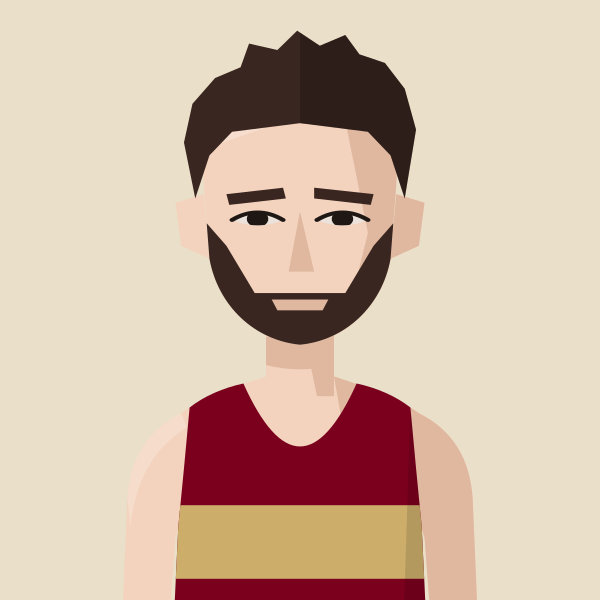
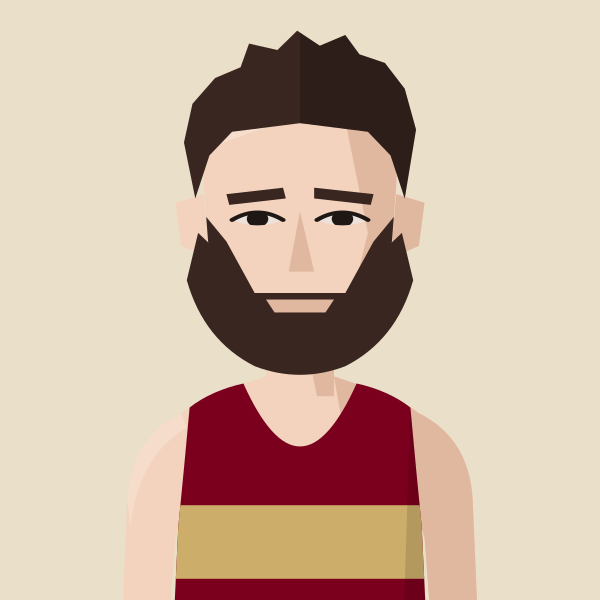
Portraits from The Belgravian, batch 2: Tony Fairclough, Trevor Hart, Ron Linstead, John Baker, Simon Holmes, Mike Kortenray, Geoff Biscoe; bushier beard for Lionel Mann
Adds a 'bushybeard' facial style to the generator. John Lee (CRO) drawn but not registered: the site merges every J Lee into one Hounslow runner.

Claude-Session: https://claude.ai/code/session_01DgcEr9hQHGiZw2mBbM5jbH

Changed region(s): [[0.3, 0.36, 0.69, 0.63], [0.54, 0.48, 0.57, 0.51]]

diff --git a/files/index.html b/files/index.html
@@ -591,12 +591,12 @@ const LoadingVests=()=>{
 const PORTRAIT_CLUBS=new Set(['BEL','KEN','THH','HHH','H/W','SLH','G&G','RAN','C/C','DUL','HOL','WAL','CRO','WOK','E&E','FUL','SOC','BOX','BOH','AFD','SUR','MIT','REI','DMV','STR','W4H','W/W','K&P','S&D','SEL','DWN','FOT','LCR','ADV','262','MPA','BAC','OME','VAC','HER']);
 // Superstar portraits: every spelling of the athlete's name used in the data -> file in portraits/athletes/
 const PORTRAITS=(()=>{const m={};const add=(file,club,...names)=>names.forEach(n=>{const k=n.toLowerCase();if(m[k]&&m[k].club!==club)m[k+'@'+club]={file,club};else m[k]={file,club};});
-add('kitty-shepherd-cross','BEL','Kitty Shepherd-Cross','Kitty Shepherd Cross');add('jack-kavanagh','HOL','Jack Kavanagh');add('sam-bramwell','HHH','Sam Bramwell');add('suzie-harvey','G&G','Suzie Harvey');add('freddie-hessian','H/W','Freddie Hessian');add('jamie-crowe','H/W','Jamie Crowe');add('sam-gebreselassie','BEL','Samuel Gebreselassie','Sam Gebreselassie');add('jack-brotchie','HHH','Jack Brotchie');add('jack-millar','THH','Jack Millar');add('lucy-jones','HHH','Lucy Jones');add('alex-milne','H/W','Alex Milne');add('josh-trigwell','BEL','Josh Trigwell');add('mack-downie','BEL','Mack Downey','Mack Downie');add('george-ogden','SLH','George Ogden');add('stuart-mccallum','H/W','Stuart McCallum');add('andrew-penney','H/W','Andrew Penney');add('jeremy-dempsey','THH','Jeremy Dempsey');add('henry-hart','BEL','Henry Hart');add('john-sanderson','G&G','John Sanderson');add('andy-fyfe','BEL','Andrew Fyfe','Andy Fyfe');add('saron-haileselase','BEL','Saron Haileselase');add('paskar-owor','BEL','Paskar Owor');add('ruby-carter','H/W','Ruby Carter');add('tom-foster','G&G','Tom Foster');add('mark-tennyson','G&G','Mark Tennyson');add('richard-ollington','THH','Richard Ollington');add('james-preston','BEL','James Preston');add('daniel-wolff','BEL','Daniel Wolff');add('jonny-scott','BEL','Jonathan Scott','Jonny Scott');add('josh-mitchell','BEL','Josh Mitchell');add('dylan-evans','BEL','Dylan Evans');add('morgan-roberts','HHH','Morgan Roberts');add('fred-slemeck','H/W','Fred Slemeck','Frederick Slemeck');add('matthew-edgar','BEL','Matthew Edgar');add('sam-sommerville','BEL','Sam Sommerville');add('richard-mcdowell','H/W','Richard McDowell');add('margaret-coogan','HHH','Margaret Coogan');add('owen-hind','KEN','Owen Hind','Owen Hinds');add('indy-barnes','THH','Indy Barnes');add('conall-mcnally','BEL','Conall McNally');add('rowan-board','HHH','Rowan Board');add('andy-weir','THH','Andy Weir','Andrew Weir');add('neil-chisholm','THH','Neil Chisholm','Neal Chisholm');add('pancho-panchev','H/W','Pancho Panchev');add('adrien-royer','G&G','Adrien Royer');add('rob-kelly','BEL','Robert Kelly','Rob Kelly');add('alex-janiaud','BEL','Alex Janiaud');add('jack-ramm','DUL','Jack Ramm');add('findlay-dyer','BEL','Findlay Dyer');add('james-blackwood','DUL','James Blackwood');add('sonny-nicoll','H/W','Sonny Nicoll');add('anisse-ismaili','THH','Anisse Ismaili');add('caleb-hathaway','HHH','Caleb Hathaway');add('barnaby-day','KEN','Barnaby Day');add('simon-coppard','BEL','Simon Coppard');add('ronan-tanguy','HHH','Ronan Tanguy');add('chris-threadgold','BEL','Chris Threadgold');add('mathew-speed','KEN','Mathew Speed','Matthew Speed');add('john-lethbridge','THH','John Lethbridge');add('oliver-fox','THH','Oliver Fox');add('jack-woods','HOL','Jack Woods');add('larry-ryan','BEL','Larry Ryan');add('ethan-mccolgan','THH','Ethan McColgan');add('jonathan-collier','KEN','Jonathan Collier');add('andrew-green','HOL','Andrew Green','Andy Green');add('fintan-pearce','BEL','Fintan Pearce');add('daniel-shaw','HHH','Daniel Shaw');add('sam-tyas','BEL','Sam Tyas');add('tom-austin','HHH','Tom Austin');add('ian-ellwood','KEN','Ian Ellwood');add('rian-mccawley','BEL','Rian McCawley');add('kieran-barnes','HOL','Kieran Barnes');add('ed-mallett','H/W','Ed Mallett','Edward Mallett');add('john-hutchins','WOK','John Hutchins');add('george-gathercole','THH','George Gathercole');add('nick-lightfoot','G&G','Nick Lightfoot');add('eoin-brady','H/W','Eoin Brady');add('james-stockings','H/W','James Stockings');add('jack-hobden','H/W','Jack Hobden');add('hugo-hewitt','HOL','Hugo Hewitt');add('zach-nolan','BEL','Zach Nolan');add('isaac-lutaya','H/W','Isaac Lutaya');add('oliver-young','BEL','Oliver Young');add('ben-racle','KEN','Ben Racle');add('josh-snow','BEL','Josh Snow');add('oliver-reynolds','BEL','Oliver Reynolds');add('aaron-wilson','DUL','Aaron Wilson');add('liam-burthem','HHH','Liam Burthem');add('dan-pettitt','KEN','Dan Pettitt');add('bob-holt','H/W','Bob Holt');add('dave-holt','H/W','Dave Holt');add('mike-fuller','H/W','Mike Fuller');add('mike-beevor','H/W','Mike Beevor');add('john-day','H/W','John Day');add('john-sullivan','H/W','John Sullivan');add('barry-collins','H/W','Barry Collins');add('bob-rayman','H/W','Bob Rayman');add('pete-mulholland','H/W','Pete Mulholland');add('charlie-eastaugh','H/W','Charlie Eastaugh');add('oli-carrington','H/W','Oli Carrington');add('jonathan-cornish','H/W','Jonathan Cornish');add('christopher-parker','THH','Christopher Parker');add('monty-hudson','BEL','Monty Hudson');add('dan-wallis-gg','G&G','Dan Wallis');add('ben-pearce','HOL','Ben Pearce');add('jacob-brockmann','THH','Jacob Brockmann');add('alex-gutteridge','HHH','Alex Gutteridge');add('tom-davies','H/W','Tom Davies');add('matt-wood','HHH','Matt Wood');add('isaac-parker','KEN','Isaac Parker');add('tom-omahoney','HHH','Tom O\'Mahoney');add('ed-brewer','G&G','Ed Brewer');add('james-bartram','THH','James Bartram');add('charlie-pickett','G&G','Charlie Pickett');add('harry-guttridge','C/C','Harry Guttridge');add('alex-harris','KEN','Alex Harris');add('tom-thornley','HOL','Tom Thornley');add('max-bloor','DUL','Max Bloor');add('john-foxall','HHH','John Foxall');add('robin-boon','G&G','Robin Boon');add('joe-english','KEN','Joe English');add('sebastian-anthony','G&G','Sebastian Anthony');add('thomas-gardner','BEL','Thomas Gardner');add('brian-wilder','HHH','Brian Wilder');add('george-jackson','HHH','George Jackson');add('james-roberts','BEL','James Roberts');add('ed-gibson','DUL','Ed Gibson');add('jack-harrison','SLH','Jack Harrison');add('matthew-varley','BEL','Matthew Varley');add('eddie-rolls','C/C','Eddie Rolls');add('phil-sanders','KEN','Phil Sanders');add('jon-phillips','DUL','Jon Phillips');add('noah-fernandez','H/W','Noah Fernandez');add('paul-calver','HHH','Paul Calver');add('jordan-weaver','KEN','Jordan Weaver');add('john-thresher','BEL','John Thresher','J Thresher');add('junior-galley','BEL','Junior Galley');add('tony-binda','BEL','Tony Binda');add('phil-carstairs','BEL','Phil Carstairs');add('clive-gilby','BEL','Clive Gilby');add('roger-alsop','HHH','Roger Alsop');add('roger-alsop-bel','BEL','Roger Alsop');add('gerry-adams','BEL','Gerry Adams');add('mike-nouch','BEL','Mike Nouch');add('darren-mead','BEL','Darren Mead');add('james-estall','BEL','James Estall','Jim Estall','J Estall');add('thomas-renshaw','THH','Thomas Renshaw','Tom Renshaw');add('amittai-ben-israel','THH','Amittai Ben-Israel');add('helena-keenan','HHH','Helena Keenan');add('eloise-bull','G&G','Eloise Bull');add('gemma-newport','BEL','Gemma Newport');add('sarah-palmer','STR','Sarah Palmer');add('sarah-palmer-ran','RAN','Sarah Palmer');add('elinor-skinner','KEN','Elinor Skinner');add('sarah-holt','STR','Sarah Holt');add('serena-carter','THH','Serena Carter');add('abbey-brooke','BEL','Abbey Brooke');add('becky-briggs','BEL','Becky Briggs');add('maddie-mastrolonardo','BEL','Maddie Mastrolonardo');add('jennifer-nandi','HHH','Jennifer Nandi');add('ella-fennelly','BEL','Ella Fennelly');add('natalie-beadle','BEL','Natalie Beadle');add('pamela-mchutchon','STR','Pamela McHutchon');add('gerry-north','BEL','Gerry North');add('steve-gardner','BEL','Steve Gardner');add('alex-yee','KEN','Alex Yee');add('phil-wicks','BEL','Phil Wicks');add('john-gilbert','KEN','John Gilbert','Jonathan Gilbert');add('chris-busaileh','KEN','Chris Busaileh');add('jim-allchin','KEN','Jim Allchin');add('finn-johnson','H/W','Finn Johnson');add('will-cockerell','BEL','William Cockerell','Will Cockerell');add('nick-goolab','BEL','Nick Goolab');add('arne-dumez','BEL','Arne Dumez');add('geoff-jerwood','HHH','Geoff Jerwood','G Jerwood');add('alex-lee','HHH','Alex Lee');add('benedict-whitby','HHH','Benedict Whitby');add('falilou-kebe','BEL','Falilou Kebe');add('jack-dickson','H/W','Jack Dickson');add('phil-swinburn','HOL','Phil Swinburn');add('rob-armstrong','DUL','Rob Armstrong');add('ashley-goncalves','HHH','Ashley Goncalves');add('eddie-jodrell','BEL','Eddie Jodrell');add('thomas-gandee','BEL','Thomas Gandee');add('max-milarvie','DUL','Max Milarvie');add('alex-lennon','BEL','Alex Lennon');add('james-hoad','THH','James Hoad');add('william-gardner','BEL','William Gardner');add('paddy-roddy','THH','Paddy Roddy','PADDY RoDDY');add('simon-waterhouse','BEL','Simon Waterhouse');add('conall-whelan','BEL','Conall Whelan');add('simon-williams','BEL','Simon Williams');add('christian-lee','HOL','Christian Lee');add('sean-cordon','DUL','Sean Cordon','sean cordon');add('michael-mccarthy','BEL','Michael McCarthy','Michael Mccarthy');add('jeff-cunningham','HHH','Jeff Cunningham');add('sam-peters','H/W','Sam Peters');add('ryan-hickey','HHH','Ryan Hickey');add('ben-scott','BEL','Ben Scott');add('tom-gifford','BEL','Tom Gifford');add('valentin-rigori','BEL','Valentin Rigori');add('david-grima','H/W','David Grima');add('deron-fagan','HHH','Deron Fagan');add('lee-lintern','G&G','Lee Lintern');add('ian-acreman','G&G','Ian Acreman');add('alex-howard','THH','Alex Howard');add('james-hancock','BEL','James Hancock');add('nick-morris','BEL','Nick Morris');add('richard-sun','H/W','Richard Sun');add('jonathan-cocker','G&G','Jonathan Cocker');add('isobel-hodder','BEL','Isobel Hodder');add('emma-howsham','G&G','Emma Howsham');add('eilidh-hide','BEL','Eilidh Hide');add('karen-xiang','BEL','Karen Xiang');add('claire-grima','H/W','Claire Grima');add('emma-gordon','BEL','Emma Gordon');add('emily-lowery','BEL','Emily Lowery');add('felicity-harrison','BEL','Felicity Harrison');add('alice-martin','HOL','Alice Martin');add('juliet-hodder','BEL','Juliet Hodder');add('abbie-bulbulian','C/C','Abbie Bulbulian');add('lara-mangan','BEL','Lara Mangan');add('clare-elms','KEN','Clare Elms');add('james-nutt','HHH','James Nutt');add('colin-high','G&G','Colin High');add('gavin-eccles','BEL','Gavin Eccles');add('samuel-dames','KEN','Samuel Dames');add('tom-lole','BEL','Tom Lole');add('will-marshall','BEL','Will Marshall');add('stephen-mcleod','HHH','Stephen McLeod');add('rory-orsborn','HHH','Rory Orsborn');add('thomas-dugre','BEL','Thomas Dugre');add('arthur-peel','BEL','Arthur Peel');add('angus-lamb','BEL','Angus Lamb');add('andrew-warburton','HHH','Andrew Warburton');add('robert-laing','KEN','Robert Laing');add('toby-cooke','H/W','Toby Cooke');add('harrison-hayman','SLH','Harrison Hayman');add('edward-chuck','DUL','Edward Chuck');add('robert-sesemann','KEN','Robert Sesemann');add('eoin-molloy','BEL','Eoin Molloy');add('ollie-garrod','BEL','Ollie Garrod');add('matthew-houchell','G&G','Matthew Houchell');add('ben-clarke','KEN','Ben Clarke');add('benjamin-hilson','HOL','Benjamin Hilson');add('molly-oconnor','KEN',"Molly O'Connor");add('iona-cousland','KEN','Iona Cousland');add('anika-schwarze-chintapatla','THH','Anika Schwarze-Chintapatla');add('suzy-whatmough','RAN','Suzy Whatmough');add('kristina-popadich','BEL','Kristina Popadich');add('dillan-quinn','H/W','Dillan Quinn');add('sarah-riceman','BEL','Sarah Riceman');add('holly-pan','BEL','Holly Pan');add('jermaine-mays','SLH','Jermaine Mays');add('gary-staines','BEL','Gary Staines');add('charlie-wyllie','H/W','Charlie Wyllie');add('george-cotton','WOK','George Cotton');add('cameron-reilly','G&G','Cameron Reilly');add('jack-dormer','WOK','Jack Dormer');add('lea-adamson','BEL','Lea Adamson');add('max-heyden','BEL','Max Heyden');add('ian-crowe-wright','BEL','Ian Crowe-Wright');add('neil-wilson','BEL','Neil Wilson');add('lloyd-kempson','BEL','Lloyd Kempson');add('andy-coley-maud','G&G','Andy Coley-Maud');add('dan-cliffe','H/W','Dan Cliffe');add('patrick-mcdougall','BEL','Patrick McDougall','Patrick Mcdougall');add('callum-stewart','BEL','Callum Stewart');add('jamie-parkinson','THH','Jamie Parkinson');add('phil-sesemann','KEN','Phil Sesemann');add('andy-coley-maud-cc','C/C','Andy Coley-Maud');add('jon-pepper-slh','SLH','Jon Pepper');add('ralph-street','RAN','Ralph Street');add('jon-pepper','RAN','Jon Pepper');add('kevin-quinn','SLH','Kevin Quinn');add('frank-tickner','KEN','Frank Tickner');add('paul-pollock','KEN','Paul Pollock');add('chris-busaileh-hhh','HHH','Chris Busaileh','Chris Busileah');add('james-mcmullan','THH','James McMullan');add('ben-hurley','BEL','Ben Hurley');add('alice-crane','DMV','Alice Crane');add('martina-conner','BEL','Martina Conner');add('georgie-grgec','HHH','Georgie Grgec');add('katie-snowden','HHH','Katie Snowden');add('kate-axford','BEL','Kate Axford');add('sarah-astin','BEL','Sarah Astin');add('georgie-bruinvels','SLH','Georgie Bruinvels','G Bruinvels','Georgia Bruinvels');add('samantha-munday','BEL','Samantha Munday','Sanantha Munday');add('holly-nixon','BEL','Holly Nixon');add('sophie-harris','BEL','Sophie Harris');add('isabel-brinsden','E&E','Isabel Brinsden');add('mimi-corden-lloyd','BEL','Mimi Corden-Lloyd');add('steph-hewitt','BEL','Stephanie Hewitt','Steph Hewitt');add('jared-martin','THH','Jared Martin');add('david-bowers','BEL','David Bowers','Dave Bowers');add('stuart-major','SLH','Stuart Major');add('stuart-major-thh','THH','Stuart Major');add('bernie-ford','AFD','Bernie Ford','B Ford');add('dave-taylor','HHH','Dave Taylor');add('arlo-ludewick','HHH','Arlo Ludewick');add('molly-smith','HHH','Molly Smith');add('tom-conlon','HHH','Tom Conlon','T Conlon');add('mike-cummings','HHH','Mike Cummings','M Cummings');add('simon-wurr','THH','Simon Wurr','S Wurr');add('cameron-dockerill','KEN','Cameron Dockerill','Cam Dockerill');add('james-ewing','KEN','James Ewing','Jamie Ewing');add('james-murray','KEN','James Murray');add('phil-woodford-smith','KEN','Phil Woodford-Smith');add('clare-pauzers','HHH','Clare Pauzers','Clare Pauzer','Claire Pauzer');add('steve-smythe','DUL','Steve Smythe','S Smythe','S Smyth','Steve Smyth','SMYTHE');add('steve-smythe-hhh','HHH','Steve Smythe');add('david-symons','THH','David Symons','Dave Symons','D Symons');add('john-foss','SLH','John Foss','John Fosse');add('lucy-macalister','THH','Lucy Macalister','L Macalister');add('vic-maughan','HHH','Vic Maughan','Vic Maughn','Victor Maughn','V Maughan','V Maughn','V Maugan');add('lewis-lloyd','HHH','Lewis Lloyd');add('nic-lukies','BEL','Nic Lukies');add('max-nicholls','KEN','Max Nicholls');add('nick-acfield','KEN','Nick Acfield');add('olly-buck','KEN','Olly Buck');add('dame-dibaba','KEN','Dame Dibaba');add('chris-greenwood','KEN','Chris Greenwood','Christopher Greenwood');add('chris-keavey','BEL','Chris Keavey','C Keavey');add('john-moore','BEL','John Moore');add('john-bromley','BEL','John Bromley');add('don-maclean','BEL','Don Maclean','Don McLean','D Maclean');add('david-north','BEL','Dave North','David North','D North');add('mark-waller','BEL','Mark Waller','M Waller');add('john-gladwin','BEL','John Gladwin','J Gladwin');add('alan-black','BEL','Alan Black');add('james-kelly','BEL','James Kelly');add('russell-dessaix-chin','BEL','Russell Dessaix-Chin');add('malachi-byansi','BEL','Malachi Byansi','Mal Byansi','M Byansi','Martin Byansi','Moses Byansi');add('chris-moss','BEL','Chris Moss');add('richard-ward','BEL','Richard Ward');add('david-anderson','BEL','David Anderson');add('spencer-barden','BEL','Spencer Barden');add('jonathon-blackledge','BEL','Jonathon Blackledge','J Blackledge');add('peter-clarke','H/W','Peter Clarke','P Clarke','Pete Clarke');add('mark-sinclair','BEL','Mark Sinclair','M Sinclair');add('jean-paul-wright','BEL','Jean Paul Wright','J Wright');add('mike-hayes','BEL','Mike Hayes','M Hayes');add('marcello-bizio','BEL','Marcello Bizio','M Bizio');add('ollie-foote','BEL','Oliver Foote','Ollie Foote','O Foote');add('tim-watson','BEL','Tim Watson','T Watson');add('mark-miles','BEL','Mark Miles','M Miles');add('kevin-nash','BEL','Kevin Nash','K Nash');add('paul-freary','BEL','Paul Freary','P Freary');add('stephen-sharp','BEL','Steve Sharp','Stephen Sharp');add('kassa-tadesse','BEL','Kassa Tadesse','K Tadesse');add('mike-farmery','THH','Mike Farmery','M Farmery','N Farmery');add('tom-south','DUL','Tom South','Thomas South');add('peter-giles','H/W','Peter Giles');add('peter-giles-thh','THH','Peter Giles');add('simon-coombes','HHH','Simon Coombes','S Coombes');add('david-ogden','SLH','David Ogden','Dave Ogden','D Ogden');add('robert-elphick','KEN','Robert Elphick');add('tony-harran','HHH','Tony Harran','Anthony Harran','A Harran','T Harran');add('ben-reynolds','THH','Ben Reynolds','B Reynolds');add('tom-jervis','H/W','Tom Jervis');add('nick-torry','KEN','Nick Torry','Nicholas Torry');add('john-bicourt','BEL','John Bicourt','J Bicourt');add('ruby-whyte-wilding','BEL','Ruby Whyte-Wilding');add('sophie-tooley','HHH','Sophie Tooley');add('catherine-kandie','KEN','Catherine Kandie');add('olivia-stillman','HHH','Olivia Stillman');add('alex-gandee','BEL','Alex Gandee');add('billie-mcclosky','BEL','Billie McClosky');add('lisa-bailey','STR','Lisa Bailey');add('amy-clements','KEN','Amy Clements');add('bethanie-murray','THH','Bethanie Murray');add('evie-warren','G&G','Evie Warren');add('lucy-peters','BEL','Lucy Peters');add('emma-lord','H/W','Emma Lord');add('alice-bridger-morales','HHH','Alice Bridger Morales');add('emily-bradley','BEL','Emily Bradley');add('isabelle-pickett','G&G','Isabelle Pickett');add('felicity-hayward','THH','Felicity Hayward');add('gabriel-reynolds','HHH','Gabriel Reynolds');add('lara-bromilow','KEN','Lara Bromilow');add('megan-gildea','HHH','Megan Gildea');add('maeve-kenny','SLH','Maeve Kenny');add('emilie-arnoux','BEL','Emilie Arnoux');add('katie-good','KEN','Katie Good');add('ellie-freeden','KEN','Ellie Freeden');add('alice-smith','SLH','Alice Smith');add('florence-wiggins','THH','Florence Wiggins');add('alexandra-barbour','BEL','Alex Barbour','Alexandra Barbour');add('ella-king-powrie','BEL','Ella King Powrie');add('betsy-griffiths','RAN','Betsy Griffiths');add('nicola-douglas','STR','Nicola Douglas');add('georgie-furze','WOK','Georgie Furze');add('emma-rowland','BEL','Emma Rowland');add('charlotte-griffiths','BEL','Charlotte Griffiths');add('mary-james','SLH','Mary James');add('penny-oliver','BEL','Penny Oliver');add('ava-mcandie','H/W','Ava McAndie');add('bethan-goddard','BEL','Bethan Goddard');add('nikki-sturzaker','HHH','Nikki Sturzaker');add('hannah-english','HHH','Hannah English');add('clara-pettit','H/W','Clara Pettit');add('adrian-major','BEL','Adrian Major');add('bill-kerr','BEL','Bill Kerr','W Kerr');add('brian-gorman','BEL','Brian Gorman','B Gorman');add('charlie-dabbs','BEL','Charlie Dabbs','C Dabbs');add('charlie-manning','BEL','Charlie Manning','C Manning','Charlie Maning');add('john-davies','BEL','John Davies');add('lionel-mann','BEL','Lionel Mann','L Mann');add('pat-newell','BEL','Pat Newell','P Newell');
+add('kitty-shepherd-cross','BEL','Kitty Shepherd-Cross','Kitty Shepherd Cross');add('jack-kavanagh','HOL','Jack Kavanagh');add('sam-bramwell','HHH','Sam Bramwell');add('suzie-harvey','G&G','Suzie Harvey');add('freddie-hessian','H/W','Freddie Hessian');add('jamie-crowe','H/W','Jamie Crowe');add('sam-gebreselassie','BEL','Samuel Gebreselassie','Sam Gebreselassie');add('jack-brotchie','HHH','Jack Brotchie');add('jack-millar','THH','Jack Millar');add('lucy-jones','HHH','Lucy Jones');add('alex-milne','H/W','Alex Milne');add('josh-trigwell','BEL','Josh Trigwell');add('mack-downie','BEL','Mack Downey','Mack Downie');add('george-ogden','SLH','George Ogden');add('stuart-mccallum','H/W','Stuart McCallum');add('andrew-penney','H/W','Andrew Penney');add('jeremy-dempsey','THH','Jeremy Dempsey');add('henry-hart','BEL','Henry Hart');add('john-sanderson','G&G','John Sanderson');add('andy-fyfe','BEL','Andrew Fyfe','Andy Fyfe');add('saron-haileselase','BEL','Saron Haileselase');add('paskar-owor','BEL','Paskar Owor');add('ruby-carter','H/W','Ruby Carter');add('tom-foster','G&G','Tom Foster');add('mark-tennyson','G&G','Mark Tennyson');add('richard-ollington','THH','Richard Ollington');add('james-preston','BEL','James Preston');add('daniel-wolff','BEL','Daniel Wolff');add('jonny-scott','BEL','Jonathan Scott','Jonny Scott');add('josh-mitchell','BEL','Josh Mitchell');add('dylan-evans','BEL','Dylan Evans');add('morgan-roberts','HHH','Morgan Roberts');add('fred-slemeck','H/W','Fred Slemeck','Frederick Slemeck');add('matthew-edgar','BEL','Matthew Edgar');add('sam-sommerville','BEL','Sam Sommerville');add('richard-mcdowell','H/W','Richard McDowell');add('margaret-coogan','HHH','Margaret Coogan');add('owen-hind','KEN','Owen Hind','Owen Hinds');add('indy-barnes','THH','Indy Barnes');add('conall-mcnally','BEL','Conall McNally');add('rowan-board','HHH','Rowan Board');add('andy-weir','THH','Andy Weir','Andrew Weir');add('neil-chisholm','THH','Neil Chisholm','Neal Chisholm');add('pancho-panchev','H/W','Pancho Panchev');add('adrien-royer','G&G','Adrien Royer');add('rob-kelly','BEL','Robert Kelly','Rob Kelly');add('alex-janiaud','BEL','Alex Janiaud');add('jack-ramm','DUL','Jack Ramm');add('findlay-dyer','BEL','Findlay Dyer');add('james-blackwood','DUL','James Blackwood');add('sonny-nicoll','H/W','Sonny Nicoll');add('anisse-ismaili','THH','Anisse Ismaili');add('caleb-hathaway','HHH','Caleb Hathaway');add('barnaby-day','KEN','Barnaby Day');add('simon-coppard','BEL','Simon Coppard');add('ronan-tanguy','HHH','Ronan Tanguy');add('chris-threadgold','BEL','Chris Threadgold');add('mathew-speed','KEN','Mathew Speed','Matthew Speed');add('john-lethbridge','THH','John Lethbridge');add('oliver-fox','THH','Oliver Fox');add('jack-woods','HOL','Jack Woods');add('larry-ryan','BEL','Larry Ryan');add('ethan-mccolgan','THH','Ethan McColgan');add('jonathan-collier','KEN','Jonathan Collier');add('andrew-green','HOL','Andrew Green','Andy Green');add('fintan-pearce','BEL','Fintan Pearce');add('daniel-shaw','HHH','Daniel Shaw');add('sam-tyas','BEL','Sam Tyas');add('tom-austin','HHH','Tom Austin');add('ian-ellwood','KEN','Ian Ellwood');add('rian-mccawley','BEL','Rian McCawley');add('kieran-barnes','HOL','Kieran Barnes');add('ed-mallett','H/W','Ed Mallett','Edward Mallett');add('john-hutchins','WOK','John Hutchins');add('george-gathercole','THH','George Gathercole');add('nick-lightfoot','G&G','Nick Lightfoot');add('eoin-brady','H/W','Eoin Brady');add('james-stockings','H/W','James Stockings');add('jack-hobden','H/W','Jack Hobden');add('hugo-hewitt','HOL','Hugo Hewitt');add('zach-nolan','BEL','Zach Nolan');add('isaac-lutaya','H/W','Isaac Lutaya');add('oliver-young','BEL','Oliver Young');add('ben-racle','KEN','Ben Racle');add('josh-snow','BEL','Josh Snow');add('oliver-reynolds','BEL','Oliver Reynolds');add('aaron-wilson','DUL','Aaron Wilson');add('liam-burthem','HHH','Liam Burthem');add('dan-pettitt','KEN','Dan Pettitt');add('bob-holt','H/W','Bob Holt');add('dave-holt','H/W','Dave Holt');add('mike-fuller','H/W','Mike Fuller');add('mike-beevor','H/W','Mike Beevor');add('john-day','H/W','John Day');add('john-sullivan','H/W','John Sullivan');add('barry-collins','H/W','Barry Collins');add('bob-rayman','H/W','Bob Rayman');add('pete-mulholland','H/W','Pete Mulholland');add('charlie-eastaugh','H/W','Charlie Eastaugh');add('oli-carrington','H/W','Oli Carrington');add('jonathan-cornish','H/W','Jonathan Cornish');add('christopher-parker','THH','Christopher Parker');add('monty-hudson','BEL','Monty Hudson');add('dan-wallis-gg','G&G','Dan Wallis');add('ben-pearce','HOL','Ben Pearce');add('jacob-brockmann','THH','Jacob Brockmann');add('alex-gutteridge','HHH','Alex Gutteridge');add('tom-davies','H/W','Tom Davies');add('matt-wood','HHH','Matt Wood');add('isaac-parker','KEN','Isaac Parker');add('tom-omahoney','HHH','Tom O\'Mahoney');add('ed-brewer','G&G','Ed Brewer');add('james-bartram','THH','James Bartram');add('charlie-pickett','G&G','Charlie Pickett');add('harry-guttridge','C/C','Harry Guttridge');add('alex-harris','KEN','Alex Harris');add('tom-thornley','HOL','Tom Thornley');add('max-bloor','DUL','Max Bloor');add('john-foxall','HHH','John Foxall');add('robin-boon','G&G','Robin Boon');add('joe-english','KEN','Joe English');add('sebastian-anthony','G&G','Sebastian Anthony');add('thomas-gardner','BEL','Thomas Gardner');add('brian-wilder','HHH','Brian Wilder');add('george-jackson','HHH','George Jackson');add('james-roberts','BEL','James Roberts');add('ed-gibson','DUL','Ed Gibson');add('jack-harrison','SLH','Jack Harrison');add('matthew-varley','BEL','Matthew Varley');add('eddie-rolls','C/C','Eddie Rolls');add('phil-sanders','KEN','Phil Sanders');add('jon-phillips','DUL','Jon Phillips');add('noah-fernandez','H/W','Noah Fernandez');add('paul-calver','HHH','Paul Calver');add('jordan-weaver','KEN','Jordan Weaver');add('john-thresher','BEL','John Thresher','J Thresher');add('junior-galley','BEL','Junior Galley');add('tony-binda','BEL','Tony Binda');add('phil-carstairs','BEL','Phil Carstairs');add('clive-gilby','BEL','Clive Gilby');add('roger-alsop','HHH','Roger Alsop');add('roger-alsop-bel','BEL','Roger Alsop');add('gerry-adams','BEL','Gerry Adams');add('mike-nouch','BEL','Mike Nouch');add('darren-mead','BEL','Darren Mead');add('james-estall','BEL','James Estall','Jim Estall','J Estall');add('thomas-renshaw','THH','Thomas Renshaw','Tom Renshaw');add('amittai-ben-israel','THH','Amittai Ben-Israel');add('helena-keenan','HHH','Helena Keenan');add('eloise-bull','G&G','Eloise Bull');add('gemma-newport','BEL','Gemma Newport');add('sarah-palmer','STR','Sarah Palmer');add('sarah-palmer-ran','RAN','Sarah Palmer');add('elinor-skinner','KEN','Elinor Skinner');add('sarah-holt','STR','Sarah Holt');add('serena-carter','THH','Serena Carter');add('abbey-brooke','BEL','Abbey Brooke');add('becky-briggs','BEL','Becky Briggs');add('maddie-mastrolonardo','BEL','Maddie Mastrolonardo');add('jennifer-nandi','HHH','Jennifer Nandi');add('ella-fennelly','BEL','Ella Fennelly');add('natalie-beadle','BEL','Natalie Beadle');add('pamela-mchutchon','STR','Pamela McHutchon');add('gerry-north','BEL','Gerry North');add('steve-gardner','BEL','Steve Gardner');add('alex-yee','KEN','Alex Yee');add('phil-wicks','BEL','Phil Wicks');add('john-gilbert','KEN','John Gilbert','Jonathan Gilbert');add('chris-busaileh','KEN','Chris Busaileh');add('jim-allchin','KEN','Jim Allchin');add('finn-johnson','H/W','Finn Johnson');add('will-cockerell','BEL','William Cockerell','Will Cockerell');add('nick-goolab','BEL','Nick Goolab');add('arne-dumez','BEL','Arne Dumez');add('geoff-jerwood','HHH','Geoff Jerwood','G Jerwood');add('alex-lee','HHH','Alex Lee');add('benedict-whitby','HHH','Benedict Whitby');add('falilou-kebe','BEL','Falilou Kebe');add('jack-dickson','H/W','Jack Dickson');add('phil-swinburn','HOL','Phil Swinburn');add('rob-armstrong','DUL','Rob Armstrong');add('ashley-goncalves','HHH','Ashley Goncalves');add('eddie-jodrell','BEL','Eddie Jodrell');add('thomas-gandee','BEL','Thomas Gandee');add('max-milarvie','DUL','Max Milarvie');add('alex-lennon','BEL','Alex Lennon');add('james-hoad','THH','James Hoad');add('william-gardner','BEL','William Gardner');add('paddy-roddy','THH','Paddy Roddy','PADDY RoDDY');add('simon-waterhouse','BEL','Simon Waterhouse');add('conall-whelan','BEL','Conall Whelan');add('simon-williams','BEL','Simon Williams');add('christian-lee','HOL','Christian Lee');add('sean-cordon','DUL','Sean Cordon','sean cordon');add('michael-mccarthy','BEL','Michael McCarthy','Michael Mccarthy');add('jeff-cunningham','HHH','Jeff Cunningham');add('sam-peters','H/W','Sam Peters');add('ryan-hickey','HHH','Ryan Hickey');add('ben-scott','BEL','Ben Scott');add('tom-gifford','BEL','Tom Gifford');add('valentin-rigori','BEL','Valentin Rigori');add('david-grima','H/W','David Grima');add('deron-fagan','HHH','Deron Fagan');add('lee-lintern','G&G','Lee Lintern');add('ian-acreman','G&G','Ian Acreman');add('alex-howard','THH','Alex Howard');add('james-hancock','BEL','James Hancock');add('nick-morris','BEL','Nick Morris');add('richard-sun','H/W','Richard Sun');add('jonathan-cocker','G&G','Jonathan Cocker');add('isobel-hodder','BEL','Isobel Hodder');add('emma-howsham','G&G','Emma Howsham');add('eilidh-hide','BEL','Eilidh Hide');add('karen-xiang','BEL','Karen Xiang');add('claire-grima','H/W','Claire Grima');add('emma-gordon','BEL','Emma Gordon');add('emily-lowery','BEL','Emily Lowery');add('felicity-harrison','BEL','Felicity Harrison');add('alice-martin','HOL','Alice Martin');add('juliet-hodder','BEL','Juliet Hodder');add('abbie-bulbulian','C/C','Abbie Bulbulian');add('lara-mangan','BEL','Lara Mangan');add('clare-elms','KEN','Clare Elms');add('james-nutt','HHH','James Nutt');add('colin-high','G&G','Colin High');add('gavin-eccles','BEL','Gavin Eccles');add('samuel-dames','KEN','Samuel Dames');add('tom-lole','BEL','Tom Lole');add('will-marshall','BEL','Will Marshall');add('stephen-mcleod','HHH','Stephen McLeod');add('rory-orsborn','HHH','Rory Orsborn');add('thomas-dugre','BEL','Thomas Dugre');add('arthur-peel','BEL','Arthur Peel');add('angus-lamb','BEL','Angus Lamb');add('andrew-warburton','HHH','Andrew Warburton');add('robert-laing','KEN','Robert Laing');add('toby-cooke','H/W','Toby Cooke');add('harrison-hayman','SLH','Harrison Hayman');add('edward-chuck','DUL','Edward Chuck');add('robert-sesemann','KEN','Robert Sesemann');add('eoin-molloy','BEL','Eoin Molloy');add('ollie-garrod','BEL','Ollie Garrod');add('matthew-houchell','G&G','Matthew Houchell');add('ben-clarke','KEN','Ben Clarke');add('benjamin-hilson','HOL','Benjamin Hilson');add('molly-oconnor','KEN',"Molly O'Connor");add('iona-cousland','KEN','Iona Cousland');add('anika-schwarze-chintapatla','THH','Anika Schwarze-Chintapatla');add('suzy-whatmough','RAN','Suzy Whatmough');add('kristina-popadich','BEL','Kristina Popadich');add('dillan-quinn','H/W','Dillan Quinn');add('sarah-riceman','BEL','Sarah Riceman');add('holly-pan','BEL','Holly Pan');add('jermaine-mays','SLH','Jermaine Mays');add('gary-staines','BEL','Gary Staines');add('charlie-wyllie','H/W','Charlie Wyllie');add('george-cotton','WOK','George Cotton');add('cameron-reilly','G&G','Cameron Reilly');add('jack-dormer','WOK','Jack Dormer');add('lea-adamson','BEL','Lea Adamson');add('max-heyden','BEL','Max Heyden');add('ian-crowe-wright','BEL','Ian Crowe-Wright');add('neil-wilson','BEL','Neil Wilson');add('lloyd-kempson','BEL','Lloyd Kempson');add('andy-coley-maud','G&G','Andy Coley-Maud');add('dan-cliffe','H/W','Dan Cliffe');add('patrick-mcdougall','BEL','Patrick McDougall','Patrick Mcdougall');add('callum-stewart','BEL','Callum Stewart');add('jamie-parkinson','THH','Jamie Parkinson');add('phil-sesemann','KEN','Phil Sesemann');add('andy-coley-maud-cc','C/C','Andy Coley-Maud');add('jon-pepper-slh','SLH','Jon Pepper');add('ralph-street','RAN','Ralph Street');add('jon-pepper','RAN','Jon Pepper');add('kevin-quinn','SLH','Kevin Quinn');add('frank-tickner','KEN','Frank Tickner');add('paul-pollock','KEN','Paul Pollock');add('chris-busaileh-hhh','HHH','Chris Busaileh','Chris Busileah');add('james-mcmullan','THH','James McMullan');add('ben-hurley','BEL','Ben Hurley');add('alice-crane','DMV','Alice Crane');add('martina-conner','BEL','Martina Conner');add('georgie-grgec','HHH','Georgie Grgec');add('katie-snowden','HHH','Katie Snowden');add('kate-axford','BEL','Kate Axford');add('sarah-astin','BEL','Sarah Astin');add('georgie-bruinvels','SLH','Georgie Bruinvels','G Bruinvels','Georgia Bruinvels');add('samantha-munday','BEL','Samantha Munday','Sanantha Munday');add('holly-nixon','BEL','Holly Nixon');add('sophie-harris','BEL','Sophie Harris');add('isabel-brinsden','E&E','Isabel Brinsden');add('mimi-corden-lloyd','BEL','Mimi Corden-Lloyd');add('steph-hewitt','BEL','Stephanie Hewitt','Steph Hewitt');add('jared-martin','THH','Jared Martin');add('david-bowers','BEL','David Bowers','Dave Bowers');add('stuart-major','SLH','Stuart Major');add('stuart-major-thh','THH','Stuart Major');add('bernie-ford','AFD','Bernie Ford','B Ford');add('dave-taylor','HHH','Dave Taylor');add('arlo-ludewick','HHH','Arlo Ludewick');add('molly-smith','HHH','Molly Smith');add('tom-conlon','HHH','Tom Conlon','T Conlon');add('mike-cummings','HHH','Mike Cummings','M Cummings');add('simon-wurr','THH','Simon Wurr','S Wurr');add('cameron-dockerill','KEN','Cameron Dockerill','Cam Dockerill');add('james-ewing','KEN','James Ewing','Jamie Ewing');add('james-murray','KEN','James Murray');add('phil-woodford-smith','KEN','Phil Woodford-Smith');add('clare-pauzers','HHH','Clare Pauzers','Clare Pauzer','Claire Pauzer');add('steve-smythe','DUL','Steve Smythe','S Smythe','S Smyth','Steve Smyth','SMYTHE');add('steve-smythe-hhh','HHH','Steve Smythe');add('david-symons','THH','David Symons','Dave Symons','D Symons');add('john-foss','SLH','John Foss','John Fosse');add('lucy-macalister','THH','Lucy Macalister','L Macalister');add('vic-maughan','HHH','Vic Maughan','Vic Maughn','Victor Maughn','V Maughan','V Maughn','V Maugan');add('lewis-lloyd','HHH','Lewis Lloyd');add('nic-lukies','BEL','Nic Lukies');add('max-nicholls','KEN','Max Nicholls');add('nick-acfield','KEN','Nick Acfield');add('olly-buck','KEN','Olly Buck');add('dame-dibaba','KEN','Dame Dibaba');add('chris-greenwood','KEN','Chris Greenwood','Christopher Greenwood');add('chris-keavey','BEL','Chris Keavey','C Keavey');add('john-moore','BEL','John Moore');add('john-bromley','BEL','John Bromley');add('don-maclean','BEL','Don Maclean','Don McLean','D Maclean');add('david-north','BEL','Dave North','David North','D North');add('mark-waller','BEL','Mark Waller','M Waller');add('john-gladwin','BEL','John Gladwin','J Gladwin');add('alan-black','BEL','Alan Black');add('james-kelly','BEL','James Kelly');add('russell-dessaix-chin','BEL','Russell Dessaix-Chin');add('malachi-byansi','BEL','Malachi Byansi','Mal Byansi','M Byansi','Martin Byansi','Moses Byansi');add('chris-moss','BEL','Chris Moss');add('richard-ward','BEL','Richard Ward');add('david-anderson','BEL','David Anderson');add('spencer-barden','BEL','Spencer Barden');add('jonathon-blackledge','BEL','Jonathon Blackledge','J Blackledge');add('peter-clarke','H/W','Peter Clarke','P Clarke','Pete Clarke');add('mark-sinclair','BEL','Mark Sinclair','M Sinclair');add('jean-paul-wright','BEL','Jean Paul Wright','J Wright');add('mike-hayes','BEL','Mike Hayes','M Hayes');add('marcello-bizio','BEL','Marcello Bizio','M Bizio');add('ollie-foote','BEL','Oliver Foote','Ollie Foote','O Foote');add('tim-watson','BEL','Tim Watson','T Watson');add('mark-miles','BEL','Mark Miles','M Miles');add('kevin-nash','BEL','Kevin Nash','K Nash');add('paul-freary','BEL','Paul Freary','P Freary');add('stephen-sharp','BEL','Steve Sharp','Stephen Sharp');add('kassa-tadesse','BEL','Kassa Tadesse','K Tadesse');add('mike-farmery','THH','Mike Farmery','M Farmery','N Farmery');add('tom-south','DUL','Tom South','Thomas South');add('peter-giles','H/W','Peter Giles');add('peter-giles-thh','THH','Peter Giles');add('simon-coombes','HHH','Simon Coombes','S Coombes');add('david-ogden','SLH','David Ogden','Dave Ogden','D Ogden');add('robert-elphick','KEN','Robert Elphick');add('tony-harran','HHH','Tony Harran','Anthony Harran','A Harran','T Harran');add('ben-reynolds','THH','Ben Reynolds','B Reynolds');add('tom-jervis','H/W','Tom Jervis');add('nick-torry','KEN','Nick Torry','Nicholas Torry');add('john-bicourt','BEL','John Bicourt','J Bicourt');add('ruby-whyte-wilding','BEL','Ruby Whyte-Wilding');add('sophie-tooley','HHH','Sophie Tooley');add('catherine-kandie','KEN','Catherine Kandie');add('olivia-stillman','HHH','Olivia Stillman');add('alex-gandee','BEL','Alex Gandee');add('billie-mcclosky','BEL','Billie McClosky');add('lisa-bailey','STR','Lisa Bailey');add('amy-clements','KEN','Amy Clements');add('bethanie-murray','THH','Bethanie Murray');add('evie-warren','G&G','Evie Warren');add('lucy-peters','BEL','Lucy Peters');add('emma-lord','H/W','Emma Lord');add('alice-bridger-morales','HHH','Alice Bridger Morales');add('emily-bradley','BEL','Emily Bradley');add('isabelle-pickett','G&G','Isabelle Pickett');add('felicity-hayward','THH','Felicity Hayward');add('gabriel-reynolds','HHH','Gabriel Reynolds');add('lara-bromilow','KEN','Lara Bromilow');add('megan-gildea','HHH','Megan Gildea');add('maeve-kenny','SLH','Maeve Kenny');add('emilie-arnoux','BEL','Emilie Arnoux');add('katie-good','KEN','Katie Good');add('ellie-freeden','KEN','Ellie Freeden');add('alice-smith','SLH','Alice Smith');add('florence-wiggins','THH','Florence Wiggins');add('alexandra-barbour','BEL','Alex Barbour','Alexandra Barbour');add('ella-king-powrie','BEL','Ella King Powrie');add('betsy-griffiths','RAN','Betsy Griffiths');add('nicola-douglas','STR','Nicola Douglas');add('georgie-furze','WOK','Georgie Furze');add('emma-rowland','BEL','Emma Rowland');add('charlotte-griffiths','BEL','Charlotte Griffiths');add('mary-james','SLH','Mary James');add('penny-oliver','BEL','Penny Oliver');add('ava-mcandie','H/W','Ava McAndie');add('bethan-goddard','BEL','Bethan Goddard');add('nikki-sturzaker','HHH','Nikki Sturzaker');add('hannah-english','HHH','Hannah English');add('clara-pettit','H/W','Clara Pettit');add('adrian-major','BEL','Adrian Major');add('bill-kerr','BEL','Bill Kerr','W Kerr');add('brian-gorman','BEL','Brian Gorman','B Gorman');add('charlie-dabbs','BEL','Charlie Dabbs','C Dabbs');add('charlie-manning','BEL','Charlie Manning','C Manning','Charlie Maning');add('john-davies','BEL','John Davies');add('lionel-mann','BEL','Lionel Mann','L Mann');add('pat-newell','BEL','Pat Newell','P Newell');add('tony-fairclough','BEL','Tony Fairclough');add('trevor-hart','BEL','Trevor Hart');add('ron-linstead','BEL','Ron Linstead','R Linstead');add('john-baker','BEL','John Baker','J V Baker','J Baker');add('simon-holmes','BEL','Simon Holmes','S Holmes');add('mike-kortenray','H/W','Mike Kortenray','M Kortenray');add('geoff-biscoe','MIT','Geoff Biscoe','G Biscoe');
 return m;})();
 const portraitFile=(name,club)=>{const k=normalizeNameForCompare(name||'').replace(/\s*\(([^)]*)\)$/,(m,c)=>CLUBS[c.toUpperCase()]?'':m);const a=PORTRAITS[k];if(a&&a.club===club)return a.file;const b=PORTRAITS[k+'@'+club];return b?b.file:null;};
 // Athlete header figure: superstar portrait if we have one, else a grey runner in the club vest, else the plain vest icon
 // Changes whenever any portrait changes (set by tools/build_og.py), so browsers fetch fresh images instead of old cached ones
-const PORTRAIT_V='d7539042';
+const PORTRAIT_V='d9102b70';
 const AthletePortrait=({name,club,w,fill,onClick})=>{const[failed,setFailed]=useState(false);const file=portraitFile(name,club);const src=file?`/portraits/athletes/${file}.svg?v=${PORTRAIT_V}`:PORTRAIT_CLUBS.has(club)?`/portraits/clubs/${club.replace(/\//g,'').replace(/&/g,'and')}.svg?v=${PORTRAIT_V}`:null;if(!src||failed)return<div onClick={onClick} className={onClick?'cursor-pointer':''}><ClubShield club={club} size={w}/></div>;const h=Math.round(w*148/126),ih=Math.round(w*1.4);if(fill)return<div onClick={onClick} className="cursor-pointer" style={{alignSelf:'stretch',minHeight:h,aspectRatio:'126 / 148',flexShrink:0,position:'relative',borderRadius:4,overflow:'hidden'}}><img src={src} alt={file?`Portrait of ${name.replace(/\s*\([^)]*\)$/,'')}`:`Runner in ${CLUBS[club]?.name||club} vest`} style={{position:'absolute',top:0,left:0,display:'block',width:'100%',height:'auto'}} onError={()=>setFailed(true)}/></div>;return<div style={{width:w,height:h,borderRadius:4,overflow:'hidden',flexShrink:0}}><img src={src} alt={file?`Portrait of ${name.replace(/\s*\([^)]*\)$/,'')}`:`Runner in ${CLUBS[club]?.name||club} vest`} width={w} height={ih} style={{display:'block',width:w,height:ih}} onError={()=>setFailed(true)}/></div>;};
 const getClubVestSvg=(club)=>{
   const p="M3 0 L6 0 Q7 4 10 5 Q13 4 14 0 L17 0 L17 20 L3 20 Z";

diff --git a/tools/gen_portraits.py b/tools/gen_portraits.py
@@ -158,6 +158,7 @@ FACIAL = {
     "moustache": '<path d="M86,141 L100,138 L114,141 L113,146 L100,143.5 L87,146 Z"/>',
     "thicktache": '<path d="M100,137 C108,136 115,138 117,143 L119,151 Q116,151 114,147 C110,145 105,144.5 100,145.5 C95,144.5 90,145 86,147 Q84,151 81,151 L83,143 C85,138 92,136 100,137 Z"/>',
     "beard": '<path d="M66,112 L74,124 L84,146 L116,146 L126,124 L134,112 L134,180 L66,180 Z"/>',
+    "bushybeard": '<path d="M64,106 L74,122 L84,146 L116,146 L126,122 L136,106 L136,180 L64,180 Z"/>',
     "stubble": '<path d="M66,112 L74,124 L84,146 L116,146 L126,124 L134,112 L134,180 L66,180 Z" opacity=".32"/>',
 }
 
@@ -261,6 +262,9 @@ def figure(kit, mode="custom", skin=1, hair="crop", hair_colour="dark brown", fa
                 hg.append(f'<g clip-path="url(#h{tag})" fill="{fc}">{FACIAL[facial]}</g>')
                 if facial == "beard":
                     hg.append(f'<path d="M90,149 L110,149 L108,154 L92,154 Z" fill="{dk}"/>')
+                if facial == "bushybeard":  # full, bushy beard that spills past the jawline
+                    hg.append(f'<path d="M64,118 L60,140 Q66,168 84,180 Q100,188 116,180 Q134,168 140,140 L136,118 L128,128 L118,146 L82,146 L72,128 Z" fill="{fc}"/>'
+                              f'<path d="M88,149 L112,149 L109,155 L91,155 Z" fill="{dk}"/>')
         if hair in HAIR:
             hg.append(f'<g fill="{hc}"' + (f' clip-path="url(#c{tag})"' if (cap or beanie) else '') + (' opacity=".6"' if hair in ("buzz","buzzrecede") else '') + f'>{HAIR[hair]}<g clip-path="url(#r{tag})" fill="#000" opacity=".22">{HAIR[hair]}</g></g>')
             if greying is True:
@@ -911,8 +915,18 @@ save("brian-gorman", figure("BEL", skin=1, hair="messyvolume", hair_colour="#2A1
 save("charlie-dabbs", figure("BEL", skin=1, hair="quiff", hair_colour="#241A15", glasses="square", glasses_col="#1E1E1E"))
 save("charlie-manning", figure("BEL", skin=1, hair="quiffrecede", hair_colour="mid brown", gaunt=True, creases=True))
 save("john-davies", figure("BEL", skin=1, hair="messyvolume", hair_colour="#1F1612", gaunt=True))
-save("lionel-mann", figure("BEL", skin=1, hair="tousled", hair_colour="dark brown", facial="beard"))
+save("lionel-mann", figure("BEL", skin=1, hair="tousled", hair_colour="dark brown", facial="bushybeard"))
 save("pat-newell", figure("BEL", skin=1, hair="croprecede", hair_colour="light brown", rosy=True))
+
+# Belgravian archive photos, batch 2 (Oct 2026). Hair colour inferred from black-and-white photos.
+save("tony-fairclough", figure("BEL", skin=1, hair="tousled", hair_colour="dark brown", gaunt=True))
+save("trevor-hart", figure("BEL", skin=1, hair="shortcurls", hair_colour="dark brown", jaw="square"))
+save("ron-linstead", figure("BEL", skin=1, hair="quiff", hair_colour="#241A15", gaunt=True, jaw="narrow"))
+save("john-baker", figure("BEL", skin=1, hair="horseshoe", hair_colour="#BBA98C", brow_colour="#9A8A70", gaunt=True, creases=True))
+save("simon-holmes", figure("BEL", skin=1, hair="seventies", hair_colour="dark brown"))
+save("mike-kortenray", figure("H/W", skin=1, hair="shaggyrecede", hair_colour="light brown", facial="beard", facial_colour="#8E6643"))
+save("geoff-biscoe", figure("MIT", skin=1, hair="quiff", hair_colour="dark brown"))
+save("john-lee", figure("CRO", skin=1, hair="long", hair_colour="#241A15", gaunt=True))
 
 # ---- Site export -------------------------------------------------------------
 # Every live portrait, written to site/<slug>.svg under the exact file name the
